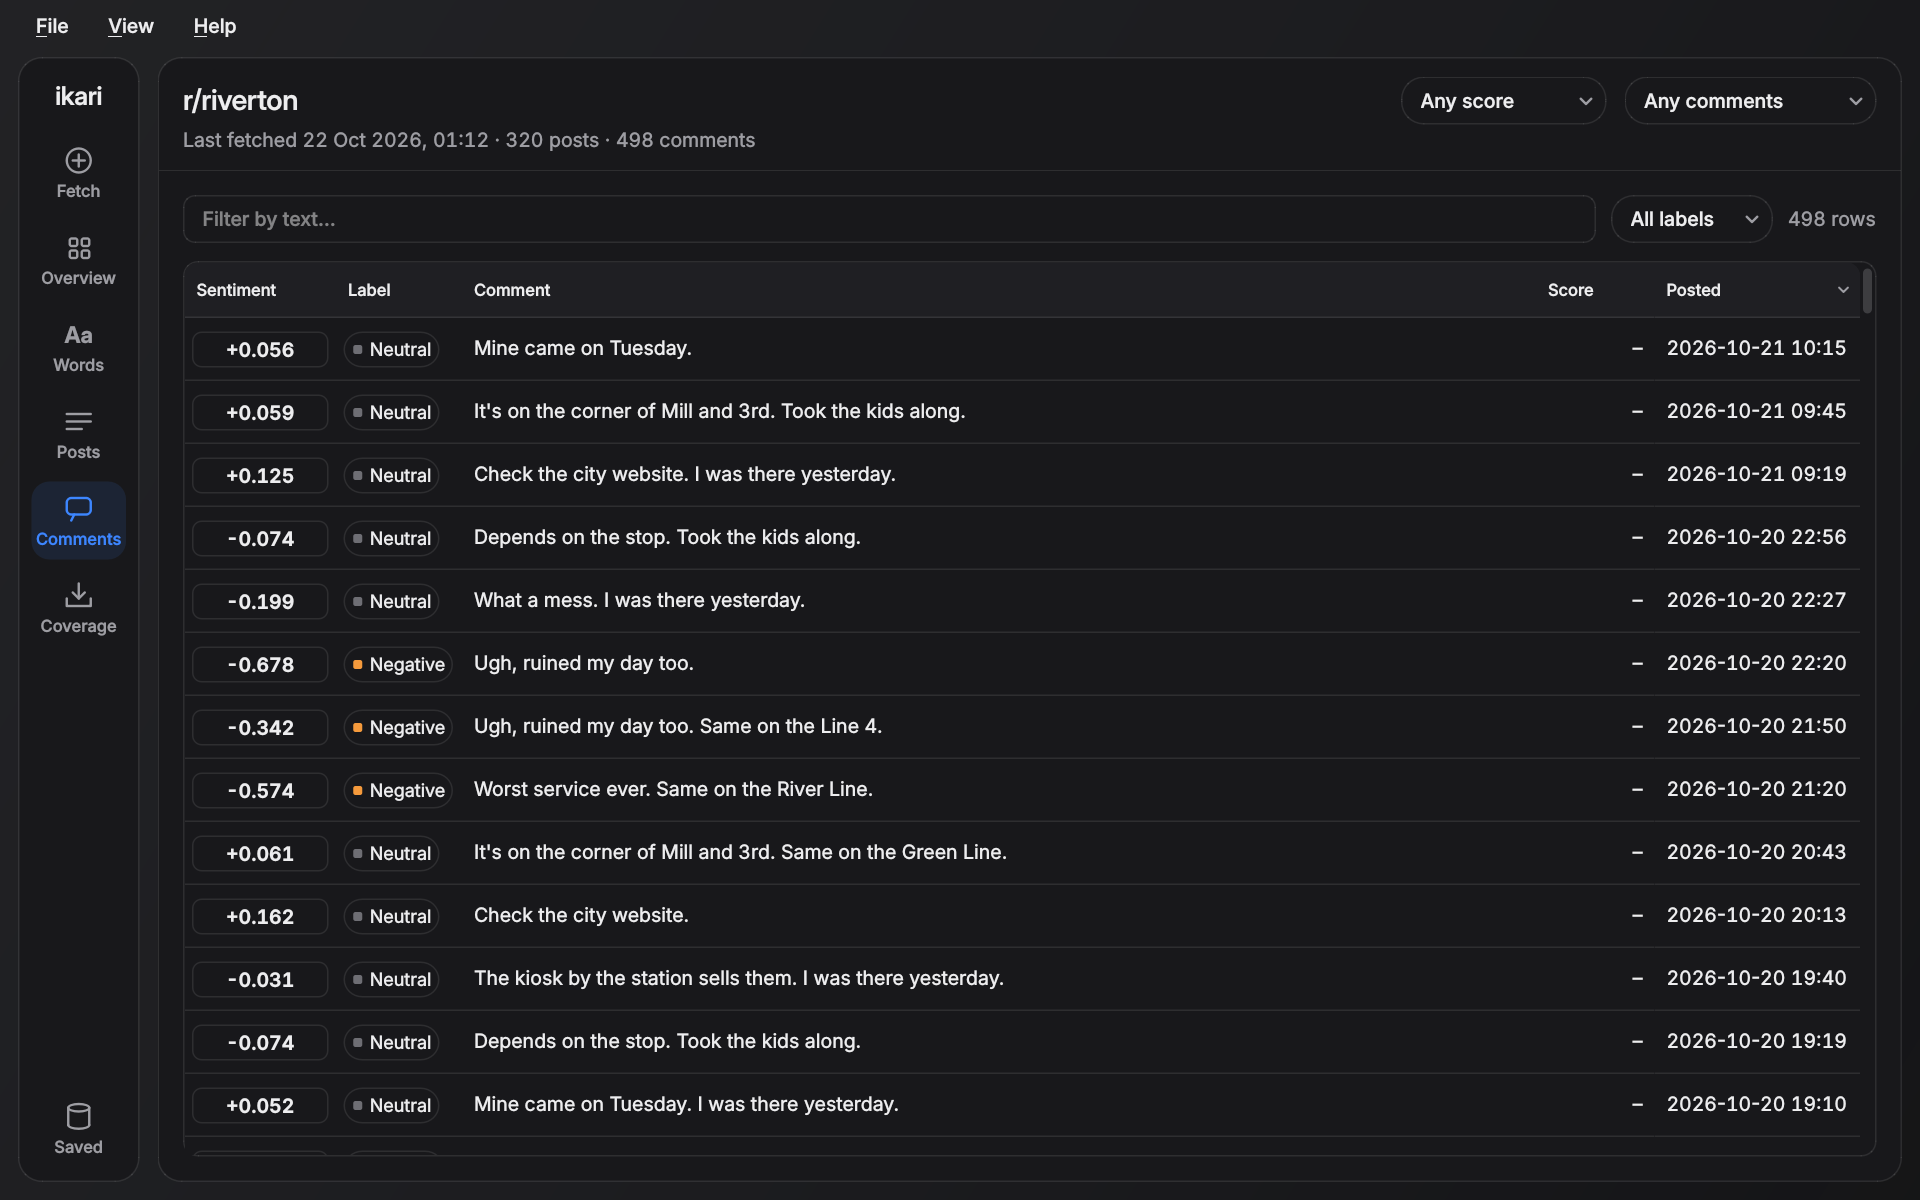
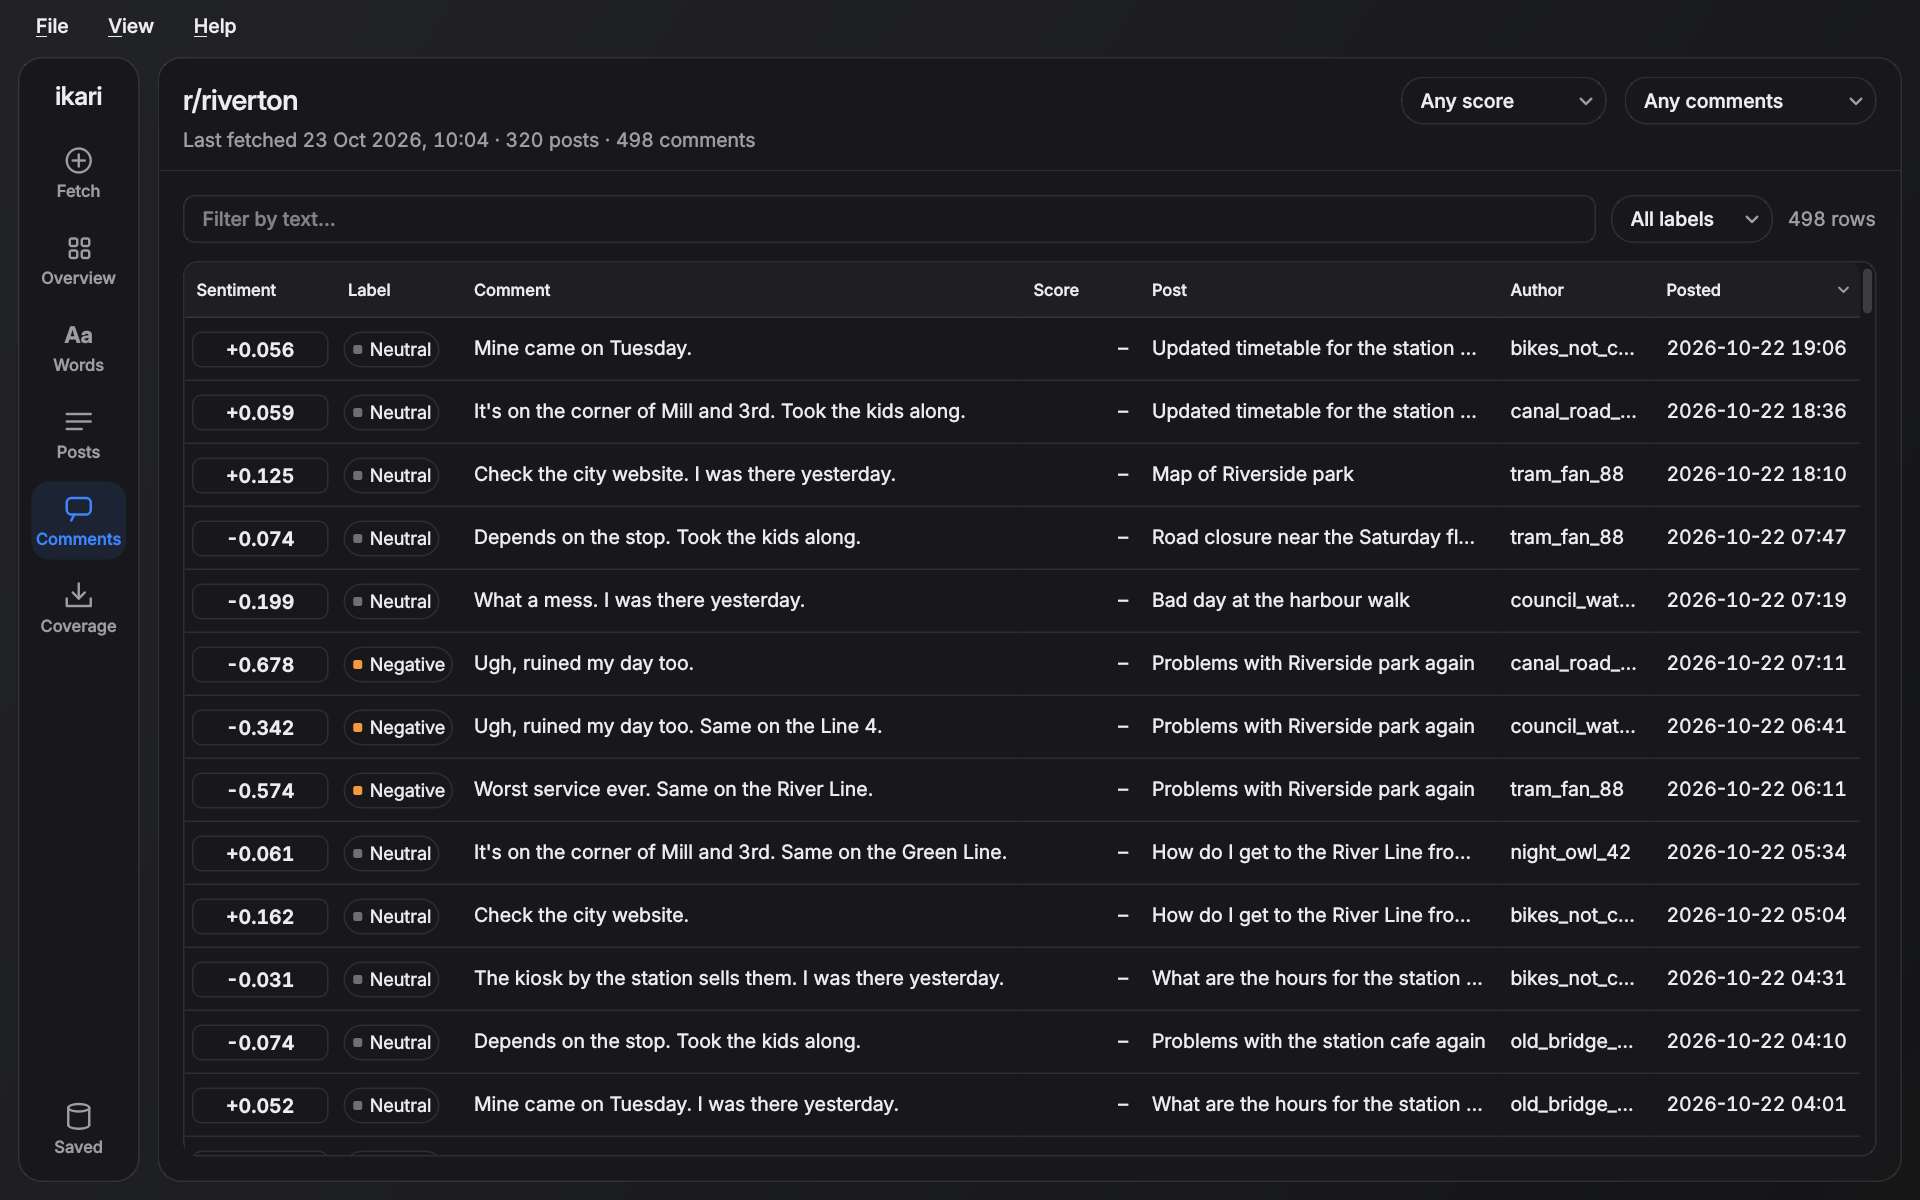
README: Comments screenshot with its Post and Author columns; say what happens when the archive is down
The Comments screenshots are retaken now that #149 keeps those columns at
1920x1200 150%. The rate-limit bullet now describes #163: several server errors
in a row count as an outage, one small check request goes out at a time, and
after ten minutes the fetch stops, keeping what it saved.

Claude-Session: https://claude.ai/code/session_019biGPtMkMSmeeFnxmMU1ya

diff --git a/README.md b/README.md
@@ -242,13 +242,15 @@ Things to know about the archive:
   range fills them in if **Scores: Update saved posts** is ticked; it re-checks those posts in batches
   of 500. It's off by default because it adds requests to every fetch.
 - **Requests are rate limited and shared.** Every request in a fetch (posts, score updates and
-  comments) goes through one limiter, at most about two and a half a second (the archive's docs say "a few
-  requests per second is fine"). The archive takes a second or two to answer each one, so up to four
-  are in flight at once, for different days or different posts. When the archive says to slow down
-  (HTTP 429) ikari waits as long as it asks and spaces later requests further apart; it also backs
-  off on server and network errors. When a query times out ("Timeout. Maybe slow down a bit"), it
-  waits, asks for a smaller page, then searches a narrower slice of time. The status line says when
-  it's waiting and why.
+  comments) goes through one limiter, at most about two and a half a second (the archive's docs say "a
+  few requests per second is fine"). The archive takes a second or two to answer each one, so up to
+  four are in flight at once, for different days or different posts. When the archive says to slow down
+  (HTTP 429) ikari waits as long as it asks and spaces later requests further apart; it also backs off
+  on network errors. If the archive keeps failing (several server errors in a row), ikari says Arctic
+  Shift is down, stops sending anything but one small check request at a time (10 s apart, growing to a
+  minute), and carries on as soon as it answers; after ten minutes down the fetch stops, keeping what it saved.
+  When a query times out ("Timeout. Maybe slow down a bit"), it waits, asks for a smaller page, then
+  searches a narrower slice of time. The status line says when it's waiting and why.
 - **Comments take one request per post.** ikari asks for each post's comment tree at once and keeps
   what the cap says. If a post's comments can't be fetched, it moves on to the next; after
   five failures in a row it stops asking, and the next fetch of the range picks up the posts that
